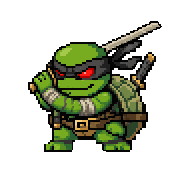
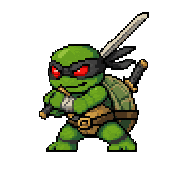
art(ninja): 普攻第七版 —— 九格同一只龟、同样大小: 第 3~6 格以待机为参照重画长相, 第 5、6 格放大 9/8 补回大小; 第 2 格手不挡脸、第 4 格双手举过头顶、第 7 格换待机为源的起身姿势; 刀身统一钢色
用户看第六版:「第二张…整个手臂和脑袋连起来了」「第六针，手和脑袋一样连在一起」「第七针、第八针…是一样的角色吗」。
根因: 接力出图每格以上一格为源, 红眼 / 腹甲 / 腰带扣 / 黑描边一格比一格丢, 身体也一格比一格小(第 5、6 格只剩待机七成面积)。

Changed region(s): [[0.125, 0.0625, 0.8438, 0.8125]]

diff --git a/tools/assetgen/build_ninja_slash.py b/tools/assetgen/build_ninja_slash.py
@@ -1,24 +1,30 @@
 # -*- coding: utf-8 -*-
-"""tools/assetgen/build_ninja_slash.py — 忍者龟普攻帧条: 一刀从右上斜斩到左下(2026-11-11 第六版, 9 格, 第 5 格命中)。
+"""tools/assetgen/build_ninja_slash.py — 忍者龟普攻帧条: 一刀从右上斜斩到左下(2026-11-11 第七版, 9 格, 第 5 格命中)。
 
 用户 11-11 定的节奏(原话):「在第二针的时候，他已经把剑扛到自己的右肩的这个上方…第四针起手斩，第五针命中，第六针斩到底，然后第七针去收」
   「我从头到尾一直在说是右上角往左下角的一个斜砍」「收势…到底是多少？说清楚」(定 3 针)。
   之前几版的毛病(用户逐条指出): 刀从头顶一格跳到底 / 同一张图重复凑格 / 刀在头顶绕圈不是斜砍 / 身体姿势前后错位(头上下乱跳、脚乱滑、朝向乱翻)。
+第七版改的(用户看第六版:「第二张…整个手臂和脑袋连起来了」「第六针，手和脑袋一样连在一起」「第七针到第八针…是一样的角色吗？」):
+  第六版每格以上一格为源接力出图, 细节一格比一格丢(红眼、米黄腹甲、腰带扣、黑描边), 到第 7 格已经不像同一只龟;
+  第 3~6 格改成「姿势取第六版那格、长相以待机原图为参照重画」(PixelLab edit_image_pro_flash method=reference, 参照 = 待机);
+  第 2 格换成双手在胸前握刀、刀斜过右肩指右上(脸完全露出来, 手臂在下巴以下);
+  第 4 格双手整个举到头顶以上(不再挡在额头前), 角色大小与脚位一像素不动(PixelLab edit_image_pixen)。
+  刀身: 重画的几格刀身被画成米黄, 在刀所在的框里改回待机那把刀的钢色(BLADE_BOX, 只认低饱和的亮色, 不碰腹甲的黄)。
 
-9 格(96 坐标, 待机: 前脚 23 / 后脚 64 / 头顶 22 / 脚底第 74 行; 实测见下, 偏离骨架表 ≤ 2 像素):
-  1 c1_lift      抬刀: 双手握刀到胸前、刀竖直                 前脚 23 后脚 64 头顶 22(双脚钉住)
-  2 c2_shoulder  刀扛到右肩上方、刀尖指右上                   前脚 23 后脚 64 头顶 25(腰以上下沉 3 像素, SINK)
-  3 c3_coil      再往后压: 下蹲、刀拉到身后几乎水平指右         前脚 20 后脚 64 头顶 29
-  4 c4_start     起手斩: 前脚踏出、双手抡到额头上方、刀尖右上高处 前脚 14 后脚 64 头顶 27
-  5 c5_hit       ★命中: 双手到胸前、刀水平朝左砍过               前脚 13 后脚 64 头顶 30
-  6 c6_end       斩到底: 双手到腰前、刀斜指左下贴地             前脚 13 后脚 64 头顶 31
-  7 c7_rise      收: 起身一半、后脚收回、刀垂身前               前脚 13 后脚 59 头顶 26
-  8 c8_stand     收: 站直、刀垂在前脚边(身体 = 待机)             前脚 22 后脚 60 头顶 22
-  9 待机原图     收: 站姿, 刀回背上                             前脚 23 后脚 64 头顶 22
-做法(接力出图, 不再每格单独从待机出): PixelLab edit_image_pro_flash, 每一格以上一格为源, 提示只改手 / 刀 / 该动的那条腿
-  (第 1、8 格以待机为源, 身体与待机逐像素重合); 锁源图色板; 2×2 取众数缩回 96。每格出两版, 挑与骨架表最接近、前后叠影接得上的那版
-  (对照图 .out/ninja_chain/cmp_*.png)。横向按钉住的那只脚对齐(SLOTS 第二项), 不再拍脑袋给偏移。
-刀光(SWEEP): 沿刀尖实际走过的路画一条带 —— 第 4 格刀尖在右上(85, 19) → 第 5 格到身前胸口高度(4, 61) → 第 6 格到左下贴地(14, 84)
+9 格(96 坐标, 待机: 前脚 23 / 后脚 64 / 头顶 22 / 脚底第 74 行; 实测, 眼睛高度 52 53 62 62 51 51 52 52 52 = 压低蓄力 → 出刀弹起):
+  1 c1_lift      抬刀: 双手握刀到胸前、刀竖直                         前脚 23 后脚 64 头顶 22
+  2 c2_shoulder  双手胸前握刀、刀斜过右肩指右上                       前脚 23 后脚 64 头顶 25(腰以上下沉 2 像素, SINK)
+  3 c3_coil      再往后压: 下蹲、双手到右肩、刀拉到身后水平指右         前脚 19 后脚 64 头顶 29
+  4 c4_start     起手斩: 前脚踏出、双手举过头顶、刀尖指右上高处         前脚 14 后脚 64(头顶 17 是举起的手)
+  5 c5_hit       ★命中: 弓步、双手到胸前、刀水平朝左砍过               前脚 13 后脚 72 头顶 24(放大 9/8)
+  6 c6_end       斩到底: 双手到腰前、刀斜指左下贴地                     前脚 13 后脚 70 头顶 24(放大 9/8)
+  7 c7_rise      收: 起身一半(还屈膝)、右手握刀斜指左下                前脚 20 后脚 64 头顶 23
+  8 c8_stand     收: 站直、刀垂在前脚边(身体 = 待机)                     前脚 25 后脚 63 头顶 22
+  9 待机原图     收: 站姿, 刀回背上                                     前脚 23 后脚 64 头顶 22
+源图: c1 / c2 / c7 / c8 是 192 的 PixelLab 原图(2×2 取众数缩回 96; c2 / c7 是第四版以待机为源出的姿势), c3~c6 是 96 的 PixelLab 原图(直接用)。
+  第 7 格不用重画的那张: 它沿用了接力出图缩小的身体(头宽 22 像素, 待机 29), 接第 8 格会一下变大。
+横向按钉住的那只脚对齐(SLOTS 第二项)。对照图在 .out/ninja_fix/。
+刀光(SWEEP): 沿刀尖实际走过的路画一条带 —— 第 4 格刀尖在右上(98, 22) → 第 5 格到身前胸口高度(3, 57) → 第 6 格到左下贴地(13, 82)
   (128 坐标, 逐格量刀尖), 是从右上往左下的斜线, 不在头顶绕圈; 第 5 格画右上 → 胸前那一段, 第 6 格画整条(老的一端变细), 第 7 格只剩末梢。
   外沿金、里面浅金、中心白, 实心无半透明, 画在人物后面。
 画布 128 方帧(待机 64 画布四边各补 32; 四边对称 ⇒ 脚底与待机同一条贴地线, 游戏里 _art_px / _art_offy 沿用待机值)。
@@ -38,34 +44,52 @@ SRC = os.path.join(HERE, "ai_src", "ninja_slash")
 OUT = os.path.join(ROOT, "assets", "sprites", "pets", "animations", "ninja", "slash.png")
 FW = 128
 PAD = 32                 # 64 画布四边补 32 = 128
-POSE_PAD = 16            # AI 图(缩回后 96)本身是 64 画布四边补 16
+POSE_PAD = 16            # AI 图(96)本身是 64 画布四边补 16
 FEET = 74                # 待机脚底行(96 坐标)
 SINK_ROW = 60            # 下沉: 这一行以上整体往下挪(大腿被压短 = 屈膝)
 POSES = ["c1_lift", "c2_shoulder", "c3_coil", "c4_start", "c5_hit", "c6_end", "c7_rise", "c8_stand"]
-SINK = {"c2_shoulder": 3}
-## 擦掉(96 坐标): 第 8 格垂下的刀尖穿过了地面线
+SINK = {"c2_shoulder": 2}
+## 擦掉(96 坐标): 第 7、8 格垂下的刀尖穿过了地面线
 ERASE = {
+	"c7_rise": [(0, 76, 30, 96)],
 	"c8_stand": [(14, 76, 32, 96)],
 }
-## 9 格: (身体, 横移像素 —— 按钉住的那只脚对齐到骨架表)
+## 刀身改回钢色(96 坐标框, 只在框里改): 重画的几格把刀画成了米黄
+BLADE_BOX = {
+	"c3_coil": (38, 18, 96, 36),
+	"c4_start": (48, 0, 96, 25),
+	"c5_hit": (0, 38, 30, 52),
+	"c6_end": (0, 50, 25, 80),
+}
+STEEL_LIGHT = (221, 209, 182)   # 第 1 格(待机那把刀)刀身的亮色
+STEEL_MID = (210, 197, 169)     # 同上, 次亮色
+## 放大 9/8(每 8 行 / 8 列复制 1 行 / 列, (列相位, 行相位) 挑复制线压到描边 / 红眼最少的): 第六版接力出图一路缩小,
+## 第 5、6 格身体只有待机的七成面积(头宽约 26 / 24 像素, 待机 29), 不放大接第 7 格会一下变大一圈。
+## 以脚底行 + 前脚为锚点: 前脚从第 4 格起踩住不动, 放大多出来的步幅落在后脚(往后蹬约 6 像素);
+## 钉后脚的话前脚和刀会往左长出去, 第 5 格刀尖顶出帧边被截。
+UPSCALE = {
+	"c5_hit": (5, 2),
+	"c6_end": (7, 6),
+}
+## 9 格: (身体, 横移像素 —— 第 1~4 格后脚钉在 64; 第 5、6 格前脚钉在 13(第 4 格前脚 14); 第 7~9 格收脚回站姿)
 SLOTS = [
 	("c1_lift", 0),
-	("c2_shoulder", 0),
-	("c3_coil", 1),
+	("c2_shoulder", -2),
+	("c3_coil", 0),
 	("c4_start", 0),
-	("c5_hit", -13),
+	("c5_hit", -12),
 	("c6_end", -5),
-	("c7_rise", -3),
-	("c8_stand", -4),
+	("c7_rise", -13),
+	("c8_stand", -1),
 	("idle", 0),
 ]
 HIT = 4
 ## 刀光: 格 → [(x, y, 宽度), …](128 坐标), 沿折线画带, 宽度按点插值、两端收尖
-T4 = (85.0, 19.0)        # 第 4 格刀尖(右上高处)
-M45 = (44.0, 35.0)       # 第 4 → 5 格之间(略往上拱, 从头顶前上方掠过)
-T5 = (4.0, 61.0)         # 第 5 格刀尖(身前胸口高度)
-M56 = (6.0, 74.0)
-T6 = (14.0, 84.0)        # 第 6 格刀尖(左下贴地)
+T4 = (98.0, 22.0)        # 第 4 格刀尖(右上高处)
+M45 = (50.0, 34.0)       # 第 4 → 5 格之间(略往上拱, 从头顶前上方掠过)
+T5 = (3.0, 57.0)         # 第 5 格刀尖(身前胸口高度)
+M56 = (5.0, 70.0)
+T6 = (13.0, 82.0)        # 第 6 格刀尖(左下贴地)
 SWEEP = {
 	4: [(T4, 1.0), (M45, 5.0), (T5, 9.0)],
 	5: [(T4, 0.5), (M45, 2.5), (T5, 6.0), (M56, 9.0), (T6, 7.0)],
@@ -97,6 +121,13 @@ def is_green(c):
 	return c[3] > 0 and c[1] > c[0] + 12 and c[1] > c[2] + 12
 
 
+def is_blade(c):
+	"""刀身: 不透明、不是绿、够亮(最大通道 > 140)、低饱和(最大 − 最小 < 75; 腹甲的黄 ≥ 100)。"""
+	if c[3] == 0 or is_green(c):
+		return False
+	return max(c[:3]) > 140 and max(c[:3]) - min(c[:3]) < 75
+
+
 def feet_row(im):
 	px = im.load()
 	w, h = im.size
@@ -113,24 +144,68 @@ def sink(im, n):
 	return out
 
 
+def upscale98(im, phase):
+	"""im 是 128 画布(身体在 (16, 16) 起的 96 区里); 9/8 最近邻放大后按「脚底行 + 前脚」对回原位, 仍是 128 画布。"""
+	fx, fy = phase
+	px = im.load()
+	xs = []
+	for x in range(-16, 112):
+		xs.extend([x, x] if x % 8 == fx else [x])
+	ys = []
+	for y in range(-16, 112):
+		ys.extend([y, y] if y % 8 == fy else [y])
+	big = Image.new("RGBA", (len(xs), len(ys)), (0, 0, 0, 0))
+	bp = big.load()
+	for j, y in enumerate(ys):
+		for i, x in enumerate(xs):
+			bp[i, j] = px[x + 16, y + 16]
+	def anchor(img, p):
+		w, h = img.size
+		f = max(y for y in range(h) for x in range(w) if is_green(p[x, y]))
+		b = min(x for x in range(w) for y in range(f - 3, f + 1) if is_green(p[x, y]))
+		return f, b
+	f0, b0 = anchor(im, px)
+	f1, b1 = anchor(big, bp)
+	out = Image.new("RGBA", (FW, FW), (0, 0, 0, 0))
+	out.alpha_composite(big.crop((b1 - b0, f1 - f0, b1 - b0 + FW, f1 - f0 + FW)))
+	return out
+
+
 def load_pose(name):
-	im = down2(Image.open(os.path.join(SRC, "%s_192.png" % name)))
+	p96 = os.path.join(SRC, "%s_96.png" % name)
+	if os.path.exists(p96):
+		im = Image.open(p96).convert("RGBA")
+	else:
+		im = down2(Image.open(os.path.join(SRC, "%s_192.png" % name)))
 	px = im.load()
 	for (x0, y0, x1, y1) in ERASE.get(name, []):
 		for y in range(y0, y1):
 			for x in range(x0, x1):
 				px[x, y] = (0, 0, 0, 0)
+	if name in BLADE_BOX:
+		x0, y0, x1, y1 = BLADE_BOX[name]
+		for y in range(y0, y1):
+			for x in range(x0, x1):
+				c = px[x, y]
+				if is_blade(c):
+					lum = 0.30 * c[0] + 0.59 * c[1] + 0.11 * c[2]
+					px[x, y] = (STEEL_LIGHT if lum >= 160.0 else STEEL_MID) + (255,)
 	dy = FEET - feet_row(im)
 	if dy:
 		moved = Image.new("RGBA", im.size, (0, 0, 0, 0))
 		moved.paste(im, (0, dy))
 		im = moved
-	return sink(im, SINK.get(name, 0))
+	im = sink(im, SINK.get(name, 0))
+	c = Image.new("RGBA", (FW, FW), (0, 0, 0, 0))
+	c.paste(im, (PAD - POSE_PAD, PAD - POSE_PAD))
+	if name in UPSCALE:
+		c = upscale98(c, UPSCALE[name])
+	return c
 
 
 def load_idle():
-	im = Image.new("RGBA", (96, 96), (0, 0, 0, 0))
-	im.paste(Image.open(os.path.join(SRC, "idle0.png")).convert("RGBA"), (POSE_PAD, POSE_PAD))
+	im = Image.new("RGBA", (FW, FW), (0, 0, 0, 0))
+	im.paste(Image.open(os.path.join(SRC, "idle0.png")).convert("RGBA"), (PAD, PAD))
 	return im
 
 
@@ -170,7 +245,7 @@ def build():
 			draw_sweep(sw, SWEEP[i])
 			canvas.alpha_composite(sw)
 		body = Image.new("RGBA", (FW, FW), (0, 0, 0, 0))
-		body.paste(bodies[bn], (PAD - POSE_PAD + dx, PAD - POSE_PAD))
+		body.paste(bodies[bn], (dx, 0))
 		canvas.alpha_composite(body)
 		sheet.paste(canvas, (i * FW, 0))
 	return sheet, bodies

diff --git a/docs/studies/20261111c-忍者普攻挥刀参考-KatanaZERO逐帧.md b/docs/studies/20261111c-忍者普攻挥刀参考-KatanaZERO逐帧.md
@@ -66,3 +66,10 @@
 - 身体错位的根因：之前每张姿势都单独从待机出，AI 每次自己定站姿 / 高低 / 朝向。改成接力出图（每格以上一格为源，只改手、刀和该动的腿），先定骨架表（前脚 / 后脚 / 头顶），按钉住的脚对齐，逐格量、叠影核。
 - 刀光沿刀尖实际走过的路画：右上 → 身前胸口 → 左下贴地，是斜线，不在头顶绕圈。
 
+## 第七版（同日，用户看完第六版）
+
+用户：「第二张…整个手臂和脑袋连起来了呀，你看不到吗？」「第六针，手和脑袋一样连在一起的」「第七针、第八针是个人吗？是一样的角色吗？」
+- 根因：第六版接力出图每格以上一格为源，细节一格比一格丢（红眼、米黄腹甲、腰带扣、黑描边），身体也一格比一格小 —— 第 5、6 格身体只有待机七成面积，第 7 格头宽 22 像素（待机 29）。
+- 第 3~6 格：姿势取第六版那格、长相以待机原图为参照重画（同一只龟）；第 5、6 格再放大 9/8 补回大小（前脚钉住）。
+- 第 2 格换成双手胸前握刀、刀斜过右肩（脸完全露出来）；第 4 格双手整个举过头顶（不挡额头）；第 7 格换成以待机为源的「还蹲着、右手握刀斜指左下」。
+- 刀身统一回待机那把刀的钢色。逐格实测：前脚 23 23 19 14 13 13 20 25 23，后脚 64 64 64 64 72 70 64 63 64，眼睛高度 52 53 62 62 51 51 52 52 52。
